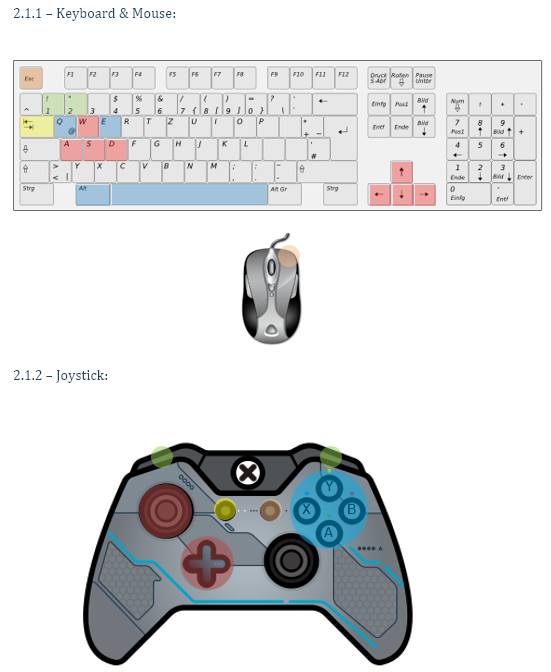
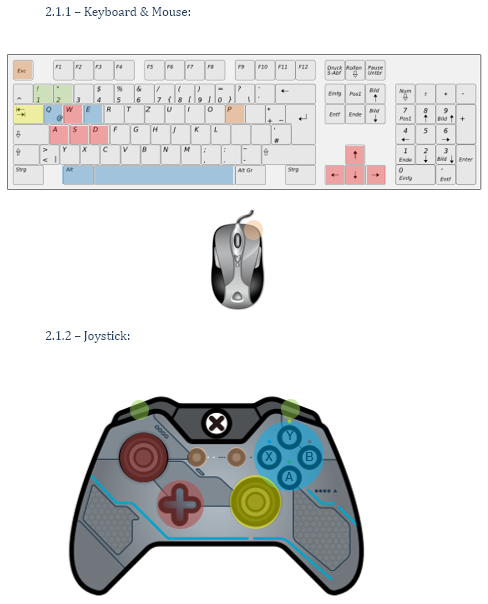
Corrected  README.md
altered image on README with correct one of input system. and iconography to explain basic stuff about the game.

diff --git a/README.md b/README.md
@@ -62,7 +62,7 @@ Philipe Gouveia
 
  
       
-      ![Legend](./Manual/Legend.png)
+![Iconography](./Manual/Iconography.png)
 
 
   
